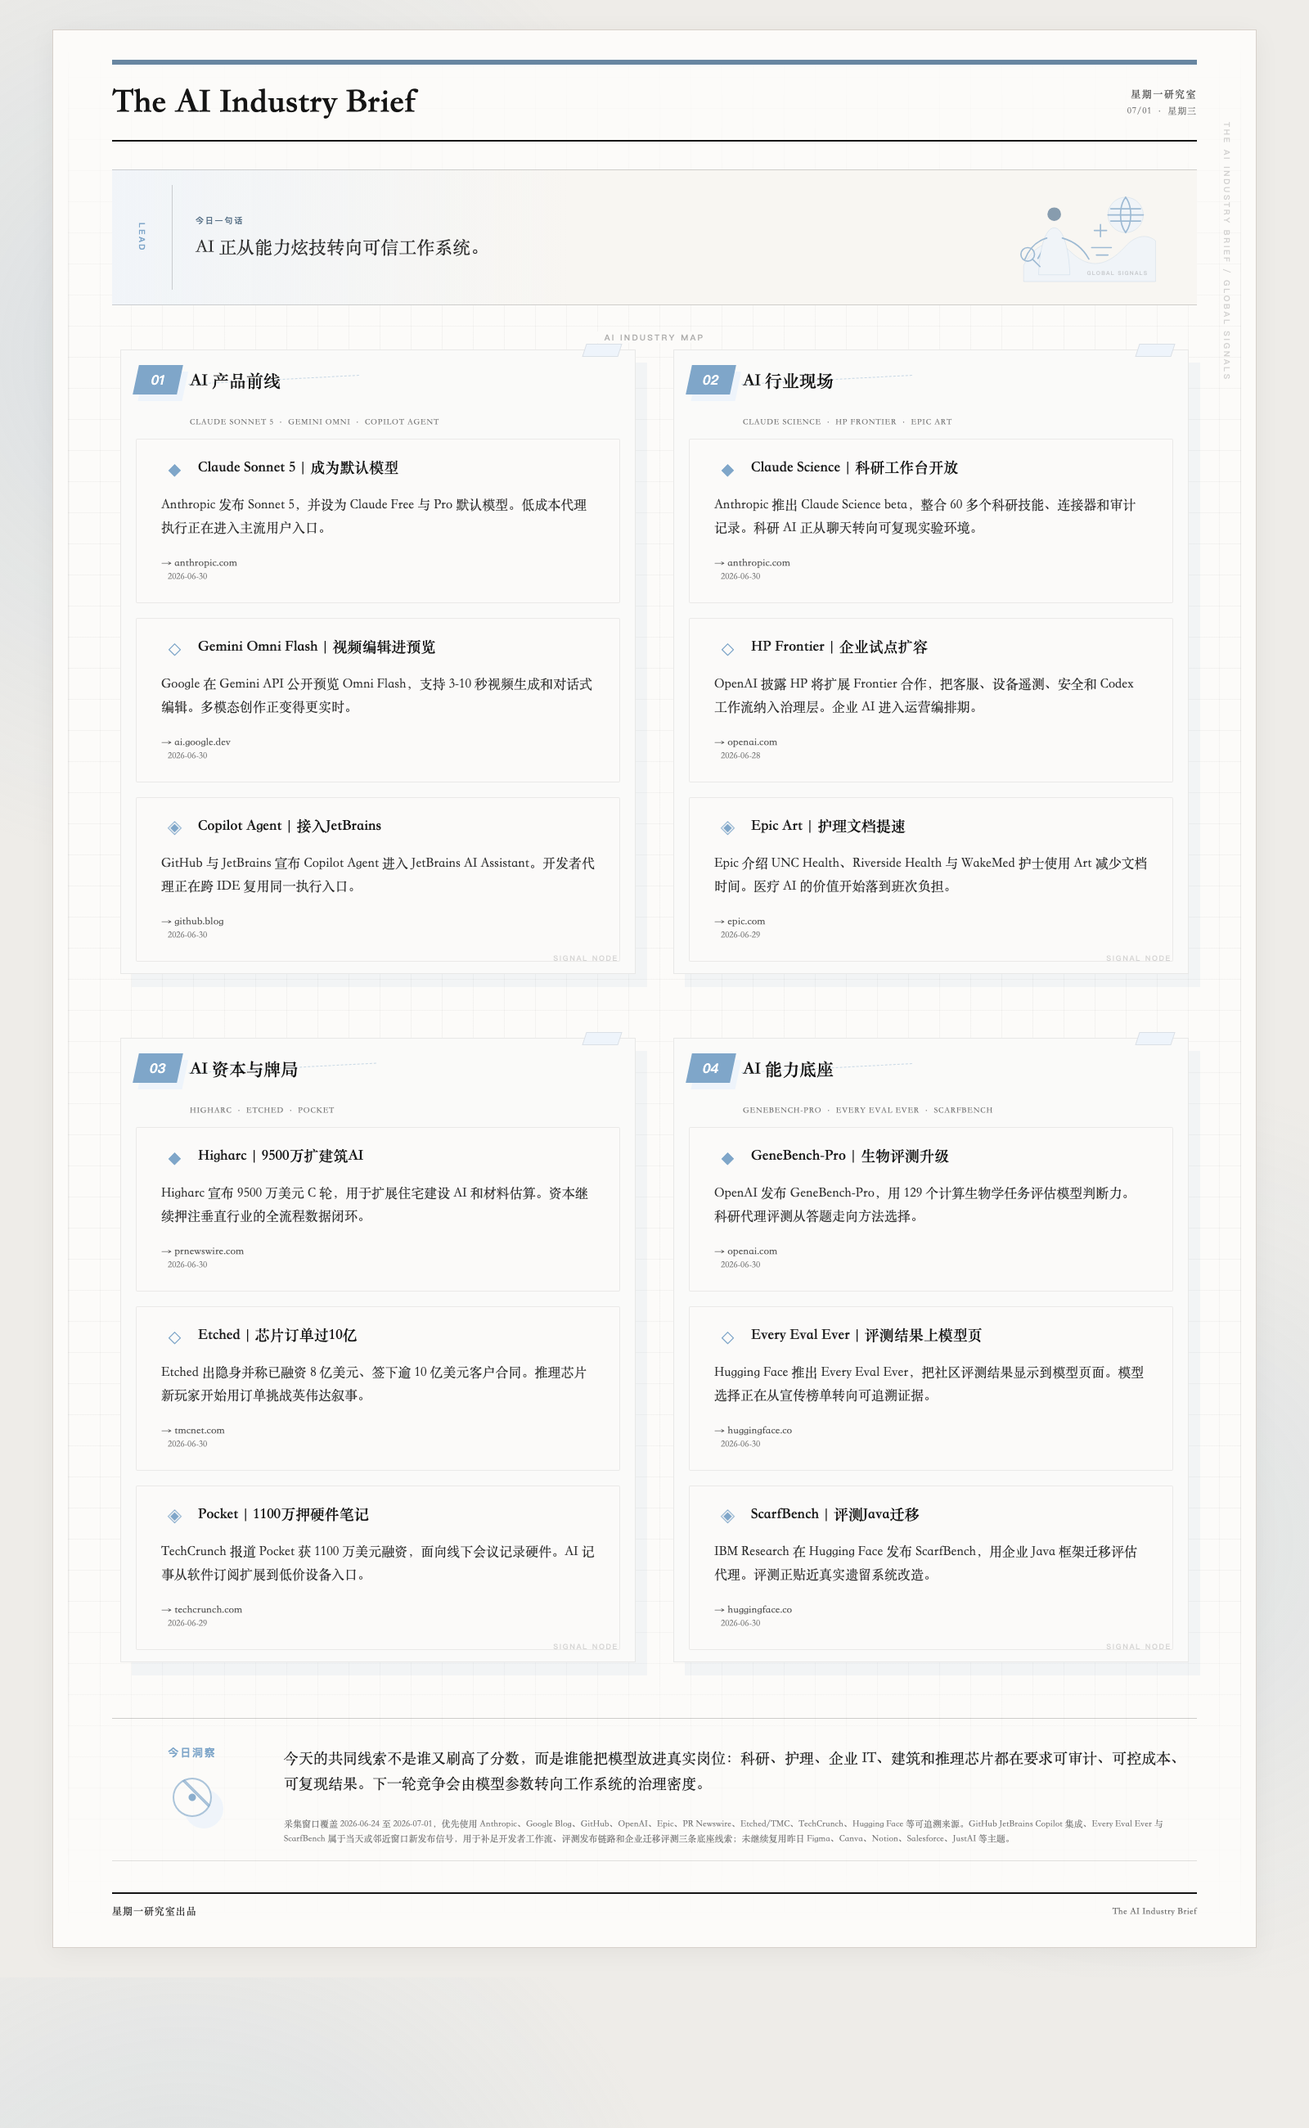
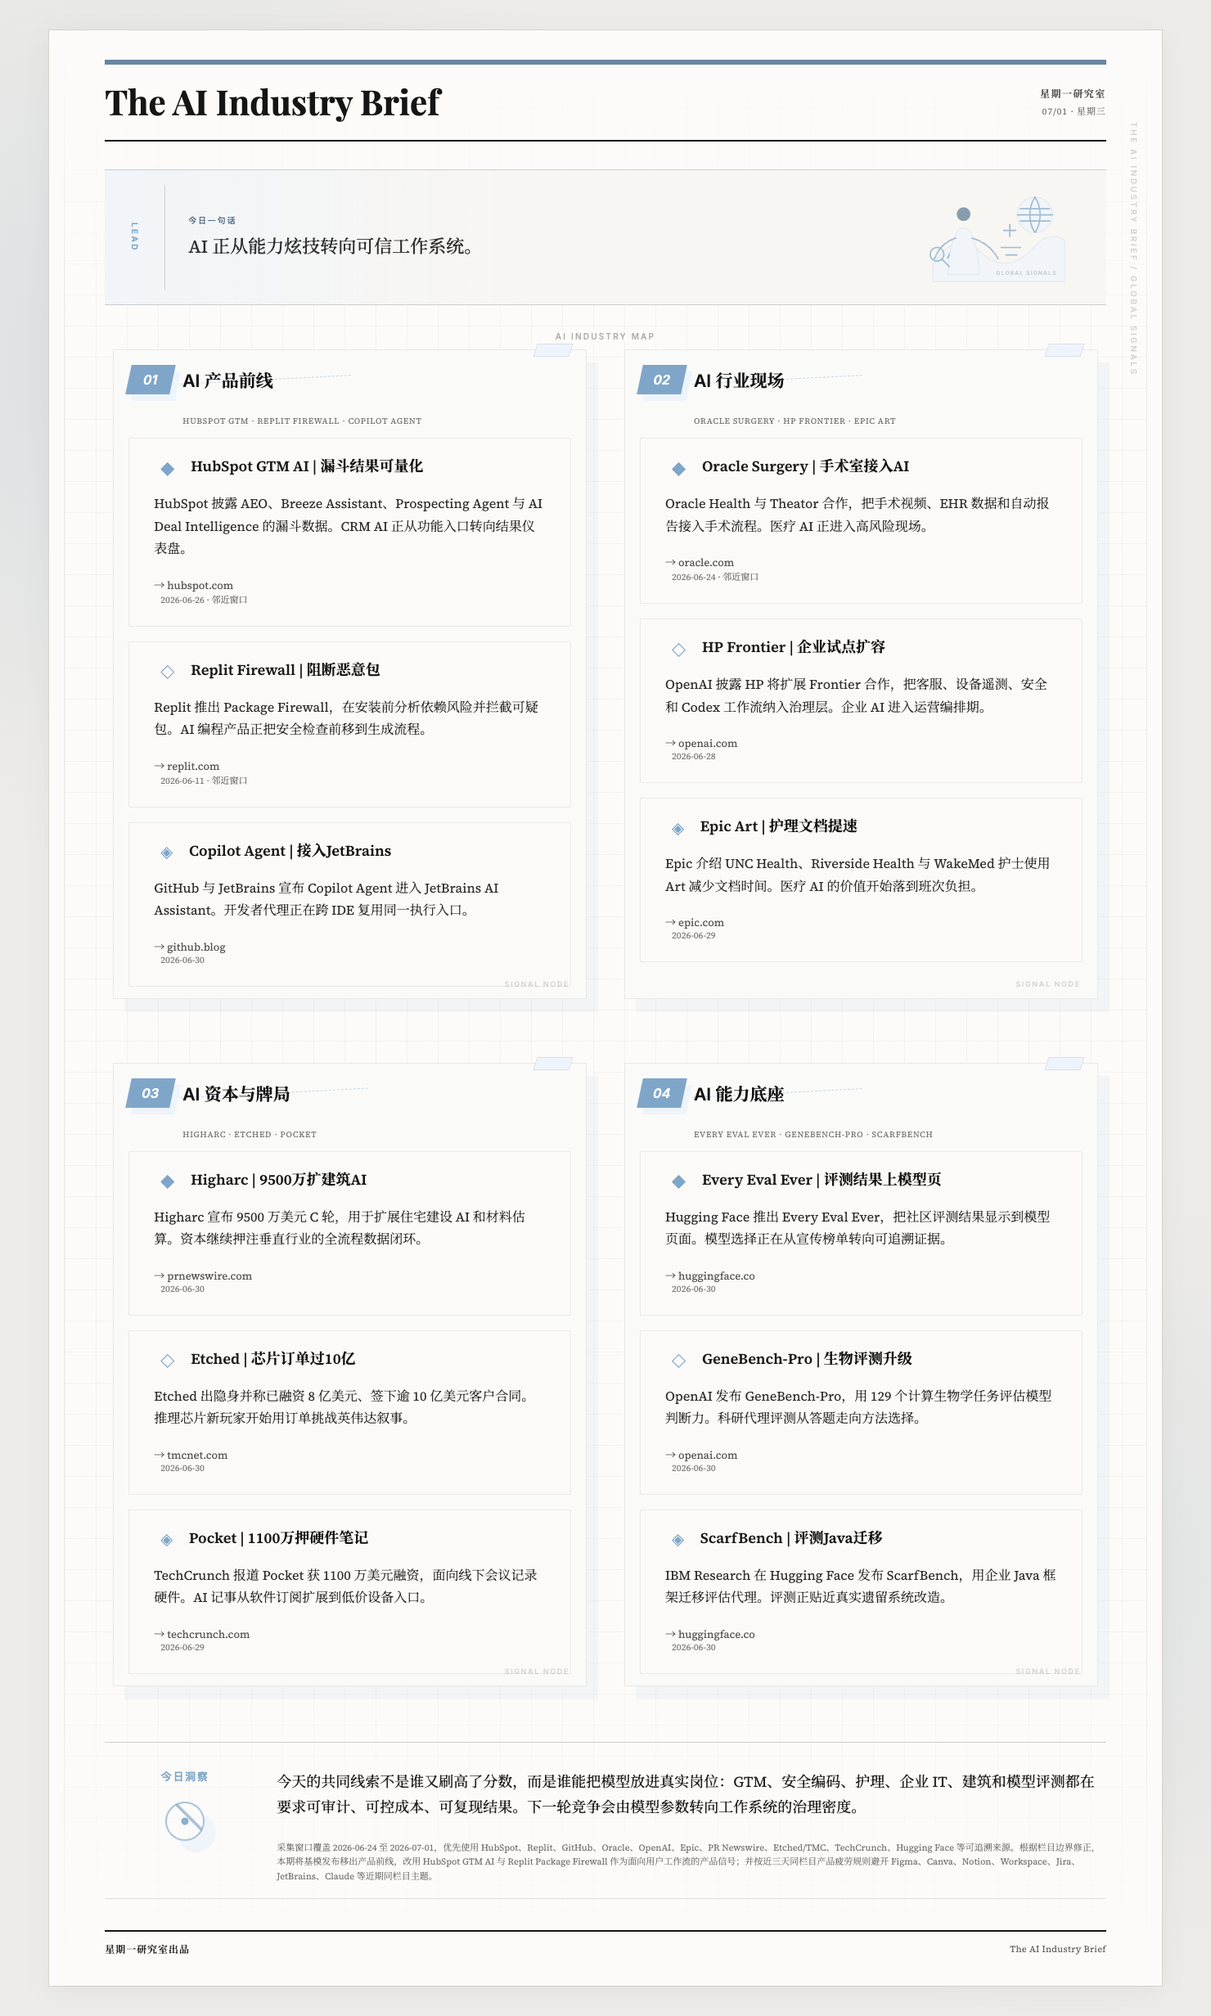
Refine 2026-07-01 brief section taxonomy

diff --git a/briefs/2026-07-01.html b/briefs/2026-07-01.html
@@ -545,17 +545,17 @@ body {
         AI 产品前线
       </span>
     </div>
-    <div class="section-sub">Claude Sonnet 5 · Gemini Omni · Copilot Agent</div>
+    <div class="section-sub">HubSpot GTM · Replit Firewall · Copilot Agent</div>
     <div class="section-items">
     <article class="item">
-      <div class="item-title"><span class="item-num" data-mark="◆" aria-label="01">01</span><span class="item-copy"><span class="item-tool">Claude Sonnet 5</span><span class="item-divider"> | </span><span class="item-heading">成为默认模型</span></span></div>
-      <p class="item-desc">Anthropic 发布 Sonnet 5，并设为 Claude Free 与 Pro 默认模型。低成本代理执行正在进入主流用户入口。</p>
-      <a class="item-source" href="https://www.anthropic.com/news/claude-sonnet-5" target="_blank" rel="noopener noreferrer">→ anthropic.com</a><span class="source-date">2026-06-30</span>
+      <div class="item-title"><span class="item-num" data-mark="◆" aria-label="01">01</span><span class="item-copy"><span class="item-tool">HubSpot GTM AI</span><span class="item-divider"> | </span><span class="item-heading">漏斗结果可量化</span></span></div>
+      <p class="item-desc">HubSpot 披露 AEO、Breeze Assistant、Prospecting Agent 与 AI Deal Intelligence 的漏斗数据。CRM AI 正从功能入口转向结果仪表盘。</p>
+      <a class="item-source" href="https://www.hubspot.com/company-news/hubspot-data-ai-is-driving-real-outcomes-for-gtm-teams" target="_blank" rel="noopener noreferrer">→ hubspot.com</a><span class="source-date">2026-06-26 · 邻近窗口</span>
     </article>
     <article class="item">
-      <div class="item-title"><span class="item-num" data-mark="◇" aria-label="02">02</span><span class="item-copy"><span class="item-tool">Gemini Omni Flash</span><span class="item-divider"> | </span><span class="item-heading">视频编辑进预览</span></span></div>
-      <p class="item-desc">Google 在 Gemini API 公开预览 Omni Flash，支持 3-10 秒视频生成和对话式编辑。多模态创作正变得更实时。</p>
-      <a class="item-source" href="https://blog.google/innovation-and-ai/products/nano-banana-pro/" target="_blank" rel="noopener noreferrer">→ ai.google.dev</a><span class="source-date">2026-06-30</span>
+      <div class="item-title"><span class="item-num" data-mark="◇" aria-label="02">02</span><span class="item-copy"><span class="item-tool">Replit Firewall</span><span class="item-divider"> | </span><span class="item-heading">阻断恶意包</span></span></div>
+      <p class="item-desc">Replit 推出 Package Firewall，在安装前分析依赖风险并拦截可疑包。AI 编程产品正把安全检查前移到生成流程。</p>
+      <a class="item-source" href="https://blog.replit.com/package-firewall" target="_blank" rel="noopener noreferrer">→ replit.com</a><span class="source-date">2026-06-11 · 邻近窗口</span>
     </article>
     <article class="item">
       <div class="item-title"><span class="item-num" data-mark="◈" aria-label="03">03</span><span class="item-copy"><span class="item-tool">Copilot Agent</span><span class="item-divider"> | </span><span class="item-heading">接入JetBrains</span></span></div>
@@ -572,12 +572,12 @@ body {
         AI 行业现场
       </span>
     </div>
-    <div class="section-sub">Claude Science · HP Frontier · Epic Art</div>
+    <div class="section-sub">Oracle Surgery · HP Frontier · Epic Art</div>
     <div class="section-items">
     <article class="item">
-      <div class="item-title"><span class="item-num" data-mark="◆" aria-label="01">01</span><span class="item-copy"><span class="item-tool">Claude Science</span><span class="item-divider"> | </span><span class="item-heading">科研工作台开放</span></span></div>
-      <p class="item-desc">Anthropic 推出 Claude Science beta，整合 60 多个科研技能、连接器和审计记录。科研 AI 正从聊天转向可复现实验环境。</p>
-      <a class="item-source" href="https://www.anthropic.com/news/claude-science-ai-workbench" target="_blank" rel="noopener noreferrer">→ anthropic.com</a><span class="source-date">2026-06-30</span>
+      <div class="item-title"><span class="item-num" data-mark="◆" aria-label="01">01</span><span class="item-copy"><span class="item-tool">Oracle Surgery</span><span class="item-divider"> | </span><span class="item-heading">手术室接入AI</span></span></div>
+      <p class="item-desc">Oracle Health 与 Theator 合作，把手术视频、EHR 数据和自动报告接入手术流程。医疗 AI 正进入高风险现场。</p>
+      <a class="item-source" href="https://www.oracle.com/news/announcement/oracle-health-extends-ai-into-the-operating-room-in-collaboration-with-theator-2026-06-24/" target="_blank" rel="noopener noreferrer">→ oracle.com</a><span class="source-date">2026-06-24 · 邻近窗口</span>
     </article>
     <article class="item">
       <div class="item-title"><span class="item-num" data-mark="◇" aria-label="02">02</span><span class="item-copy"><span class="item-tool">HP Frontier</span><span class="item-divider"> | </span><span class="item-heading">企业试点扩容</span></span></div>
@@ -626,17 +626,17 @@ body {
         AI 能力底座
       </span>
     </div>
-    <div class="section-sub">GeneBench-Pro · Every Eval Ever · ScarfBench</div>
+    <div class="section-sub">Every Eval Ever · GeneBench-Pro · ScarfBench</div>
     <div class="section-items">
     <article class="item">
-      <div class="item-title"><span class="item-num" data-mark="◆" aria-label="01">01</span><span class="item-copy"><span class="item-tool">GeneBench-Pro</span><span class="item-divider"> | </span><span class="item-heading">生物评测升级</span></span></div>
-      <p class="item-desc">OpenAI 发布 GeneBench-Pro，用 129 个计算生物学任务评估模型判断力。科研代理评测从答题走向方法选择。</p>
-      <a class="item-source" href="https://openai.com/index/introducing-genebench-pro/" target="_blank" rel="noopener noreferrer">→ openai.com</a><span class="source-date">2026-06-30</span>
-    </article>
-    <article class="item">
-      <div class="item-title"><span class="item-num" data-mark="◇" aria-label="02">02</span><span class="item-copy"><span class="item-tool">Every Eval Ever</span><span class="item-divider"> | </span><span class="item-heading">评测结果上模型页</span></span></div>
+      <div class="item-title"><span class="item-num" data-mark="◆" aria-label="01">01</span><span class="item-copy"><span class="item-tool">Every Eval Ever</span><span class="item-divider"> | </span><span class="item-heading">评测结果上模型页</span></span></div>
       <p class="item-desc">Hugging Face 推出 Every Eval Ever，把社区评测结果显示到模型页面。模型选择正在从宣传榜单转向可追溯证据。</p>
       <a class="item-source" href="https://huggingface.co/blog/eee-community-evals" target="_blank" rel="noopener noreferrer">→ huggingface.co</a><span class="source-date">2026-06-30</span>
+    </article>
+    <article class="item">
+      <div class="item-title"><span class="item-num" data-mark="◇" aria-label="02">02</span><span class="item-copy"><span class="item-tool">GeneBench-Pro</span><span class="item-divider"> | </span><span class="item-heading">生物评测升级</span></span></div>
+      <p class="item-desc">OpenAI 发布 GeneBench-Pro，用 129 个计算生物学任务评估模型判断力。科研代理评测从答题走向方法选择。</p>
+      <a class="item-source" href="https://openai.com/index/introducing-genebench-pro/" target="_blank" rel="noopener noreferrer">→ openai.com</a><span class="source-date">2026-06-30</span>
     </article>
     <article class="item">
       <div class="item-title"><span class="item-num" data-mark="◈" aria-label="03">03</span><span class="item-copy"><span class="item-tool">ScarfBench</span><span class="item-divider"> | </span><span class="item-heading">评测Java迁移</span></span></div>
@@ -649,8 +649,8 @@ body {
 
   <aside class="insight-card">
     <div class="insight-label">今日洞察</div>
-    <p class="insight-text">今天的共同线索不是谁又刷高了分数，而是谁能把模型放进真实岗位：科研、护理、企业 IT、建筑和推理芯片都在要求可审计、可控成本、可复现结果。下一轮竞争会由模型参数转向工作系统的治理密度。</p>
-    <p class="method-note">采集窗口覆盖 2026-06-24 至 2026-07-01，优先使用 Anthropic、Google Blog、GitHub、OpenAI、Epic、PR Newswire、Etched/TMC、TechCrunch、Hugging Face 等可追溯来源。GitHub JetBrains Copilot 集成、Every Eval Ever 与 ScarfBench 属于当天或邻近窗口新发布信号，用于补足开发者工作流、评测发布链路和企业迁移评测三条底座线索；未继续复用昨日 Figma、Canva、Notion、Salesforce、JustAI 等主题。</p>
+    <p class="insight-text">今天的共同线索不是谁又刷高了分数，而是谁能把模型放进真实岗位：GTM、安全编码、护理、企业 IT、建筑和模型评测都在要求可审计、可控成本、可复现结果。下一轮竞争会由模型参数转向工作系统的治理密度。</p>
+    <p class="method-note">采集窗口覆盖 2026-06-24 至 2026-07-01，优先使用 HubSpot、Replit、GitHub、Oracle、OpenAI、Epic、PR Newswire、Etched/TMC、TechCrunch、Hugging Face 等可追溯来源。根据栏目边界修正，本期将基模发布移出产品前线，改用 HubSpot GTM AI 与 Replit Package Firewall 作为面向用户工作流的产品信号；并按近三天同栏目产品疲劳规则避开 Figma、Canva、Notion、Workspace、Jira、JetBrains、Claude 等近期同栏目主题。</p>
   </aside>
 
   <footer class="footer">

diff --git a/skills/ai-industry-brief/scripts/check-brief-dedup.js b/skills/ai-industry-brief/scripts/check-brief-dedup.js
@@ -28,6 +28,31 @@ function normalizeMeta(value) {
     .trim();
 }
 
+function productFamilyFromTitle(title, company) {
+  const text = `${title || ""} ${company || ""}`.toLowerCase();
+  const families = [
+    ["chatgpt", /\bchatgpt\b|\bgpt[- ]?\d/i],
+    ["claude", /\bclaude\b|\banthropic\b/i],
+    ["gemini", /\bgemini\b|\bgoogle workspace\b|\bworkspace drops\b/i],
+    ["copilot", /\bcopilot\b/i],
+    ["perplexity", /\bperplexity\b/i],
+    ["notion", /\bnotion\b/i],
+    ["canva", /\bcanva\b/i],
+    ["figma", /\bfigma\b/i],
+    ["cursor", /\bcursor\b/i],
+    ["runway", /\brunway\b/i],
+    ["jetbrains", /\bjetbrains\b|\bjunie\b/i],
+    ["jira", /\bjira\b|\batlassian\b/i],
+    ["zoom", /\bzoom\b|\bzoommate\b/i],
+    ["hubspot", /\bhubspot\b|\bbreeze\b/i],
+  ];
+  for (const [family, pattern] of families) {
+    if (pattern.test(text)) return family;
+  }
+  const tool = String(title || "").split("|")[0]?.trim().toLowerCase();
+  return tool || normalizeMeta(company);
+}
+
 function sourceDomain(value) {
   try {
     return new URL(value).hostname.replace(/^www\./, "");
@@ -73,6 +98,8 @@ function collectFromDataJson(data) {
         companyNorm: normalizeMeta(item.company),
         topicClusterNorm: normalizeMeta(item.topicCluster),
         sourceTierNorm: normalizeMeta(item.sourceTier),
+        productFamilyNorm: normalizeMeta(item.productFamily || productFamilyFromTitle(item.title, item.company)),
+        sectionName: section.name || "",
       });
     }
   }
@@ -94,6 +121,7 @@ function collectFromHtml(html) {
       titleNorm: normalizeTitle(title),
       keyNorm: normalizeKeyFromTitle(title),
       sourceUrl: (urlMatch && urlMatch[1]) || "",
+      productFamilyNorm: normalizeMeta(productFamilyFromTitle(title, "")),
     });
   }
   return out;
@@ -155,6 +183,53 @@ function checkSemanticConcentration(candidateItems) {
 
   if (itemsWithSemanticMeta === 0) {
     warnings.push("semantic metadata missing: add optional company, topicCluster, sourceTier, discoverySource fields to improve non-repetitive selection");
+  }
+
+  return warnings;
+}
+
+function checkRecentSectionFatigue(root, candidate, candidatePath) {
+  const warnings = [];
+  const candidateDate = String(candidate.date || "").trim();
+  if (!/^\d{4}-\d{2}-\d{2}$/.test(candidateDate)) return warnings;
+
+  const dataDir = path.resolve(root, "brief-data");
+  if (!fs.existsSync(dataDir)) return warnings;
+
+  const recentDates = fs.readdirSync(dataDir)
+    .filter((name) => /^\d{4}-\d{2}-\d{2}\.json$/.test(name))
+    .map((name) => name.slice(0, 10))
+    .filter((date) => date < candidateDate)
+    .sort()
+    .reverse()
+    .slice(0, 3);
+
+  const recentBySection = new Map();
+  for (const date of recentDates) {
+    const fp = path.join(dataDir, `${date}.json`);
+    if (path.resolve(fp) === candidatePath) continue;
+    const data = readJson(fp);
+    for (const section of data.sections || []) {
+      for (const item of section.items || []) {
+        const family = normalizeMeta(item.productFamily || productFamilyFromTitle(item.title, item.company));
+        if (!family) continue;
+        const key = `${section.name || ""}::${family}`;
+        if (!recentBySection.has(key)) recentBySection.set(key, []);
+        recentBySection.get(key).push(`${date} "${item.title || family}"`);
+      }
+    }
+  }
+
+  for (const section of candidate.sections || []) {
+    for (const item of section.items || []) {
+      const family = normalizeMeta(item.productFamily || productFamilyFromTitle(item.title, item.company));
+      if (!family) continue;
+      const key = `${section.name || ""}::${family}`;
+      const recent = recentBySection.get(key) || [];
+      if (recent.length) {
+        warnings.push(`recent same-section product fatigue: "${family}" in "${section.name}" also appeared in ${recent.join(", ")}`);
+      }
+    }
   }
 
   return warnings;
@@ -229,7 +304,10 @@ function main() {
     process.exit(2);
   }
 
-  const warnings = checkSemanticConcentration(candidateItems);
+  const warnings = [
+    ...checkSemanticConcentration(candidateItems),
+    ...checkRecentSectionFatigue(root, candidate, candidatePath),
+  ];
   if (warnings.length > 0) {
     console.warn("Semantic diversity warnings:");
     for (const warning of warnings) console.warn(`- ${warning}`);

diff --git a/index.html b/index.html
@@ -773,10 +773,10 @@ h1 {
                 <p>模型发布、行业落地和资本押注都转向可审计的工作流。</p>
               </div>
               <div class="mobile-sections">
-                <div class="mobile-section"><span class="mobile-num">01</span><div><b>AI 产品前线</b><span>Claude、Gemini 和 Copilot 把代理能力推进到默认模型、视频创作和 IDE 工作流。</span></div></div>
+                <div class="mobile-section"><span class="mobile-num">01</span><div><b>AI 产品前线</b><span>HubSpot、Replit 和 Copilot 把代理能力推进到 GTM、安全编码和 IDE 工作流。</span></div></div>
                 <div class="mobile-section"><span class="mobile-num">02</span><div><b>AI 行业现场</b><span>科研、护理和企业 IT 开始用 AI 工作台替代孤立试点。</span></div></div>
                 <div class="mobile-section"><span class="mobile-num">03</span><div><b>AI 资本与牌局</b><span>资金继续流向建筑、AI 硬件和会议记录等高频刚需场景。</span></div></div>
-                <div class="mobile-section"><span class="mobile-num">04</span><div><b>AI 能力底座</b><span>生命科学评测、推理芯片和资源发现标准正在补齐可信代理基础设施。</span></div></div>
+                <div class="mobile-section"><span class="mobile-num">04</span><div><b>AI 能力底座</b><span>模型评测、生命科学任务和企业迁移基准正在补齐可信代理基础设施。</span></div></div>
               </div>
             </article>
           </div>

diff --git a/skills/ai-industry-brief/references/brief-spec.md b/skills/ai-industry-brief/references/brief-spec.md
@@ -22,6 +22,12 @@
 
 如果复用到非 AI 行业，保持「4 个栏目 x 每栏 3 条」的结构，但在采集前替换栏目名、关键词、来源优先级和影响判断维度。参考 `industry-starter.md`。
 
+栏目边界要按“读者看到的对象”判断：
+
+- `AI 产品前线` 只放面向用户、团队或具体工作流入口的产品功能、应用体验、集成和交互变化。
+- 纯模型发布、默认模型切换、模型评测、API/SDK、开发框架、算力、芯片、安全和成本变化，默认归入 `AI 能力底座`，即使发布主体是 ChatGPT、Claude、Gemini 等大众品牌。
+- 同一栏目近 3 天内尽量不要重复同一产品或产品线，尤其是 `AI 产品前线`。如果当天重大事件必须连续出现，需要在 `methodNote` 中说明为什么它不是普通 release note 堆叠。
+
 ## 首页布局
 
 - 聚合首页使用黑、白、灰为主的中性外壳，即使详情页使用当天莫兰迪主题色，也不要污染首页全局框架。
@@ -93,7 +99,7 @@
 - 每条来源链接显示可见日期；超出首选窗口的资料标注 `邻近窗口` 或 `最近官方参考`。
 - 写 HTML 之前，必须先准备 `brief-data/YYYY-MM-DD.json`。
 - 新一期动态不得与历史条目的来源 URL 或标题重复。
-- 新一期还要做语义重复检查：避免连续多条只是同一公司、同一产品线、同一主题簇的轻微变体。去重脚本出现 `WARN` 时，应优先替换候选；只有当该集中度本身就是当天判断，才保留并写入 `methodNote`。
+- 新一期还要做语义重复检查：避免连续多条只是同一公司、同一产品线、同一主题簇的轻微变体；同时避免近 3 天同栏目重复同一产品线造成读者疲劳。去重脚本出现 `WARN` 时，应优先替换候选；只有当该集中度本身就是当天判断，才保留并写入 `methodNote`。
 - 标题格式：`产品/工具名 | 核心动作短语`；动作短语不超过 15 个中文字符。
 - 描述格式：先写事实，再写意义或影响；目标长度 60-80 个中文字符。
 - 今日一句话：一句明确判断，不超过 50 个中文字符。
